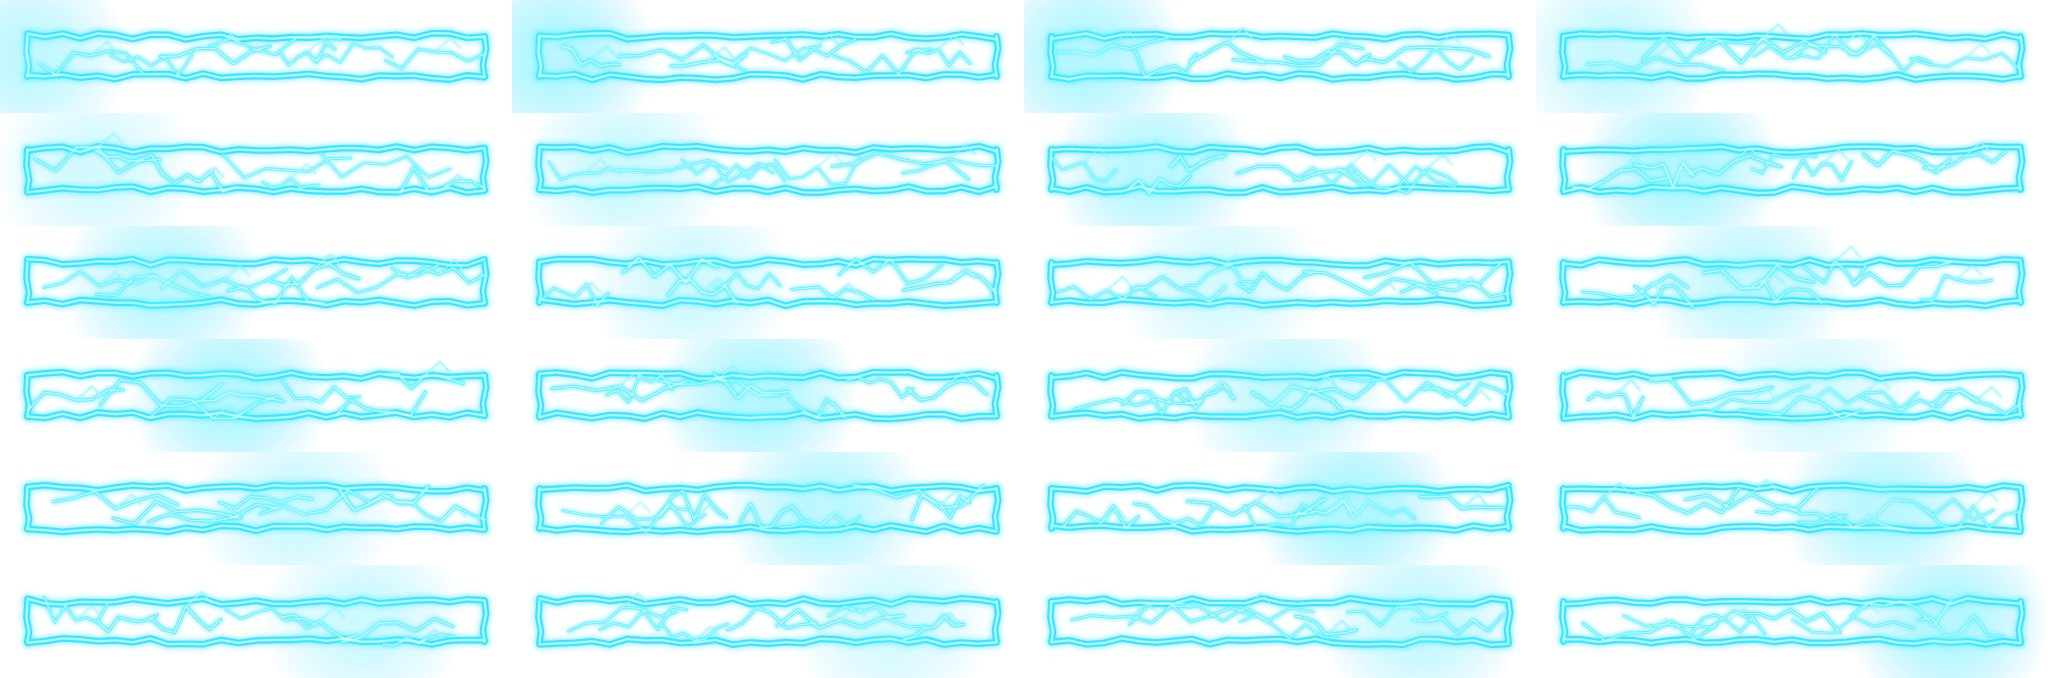
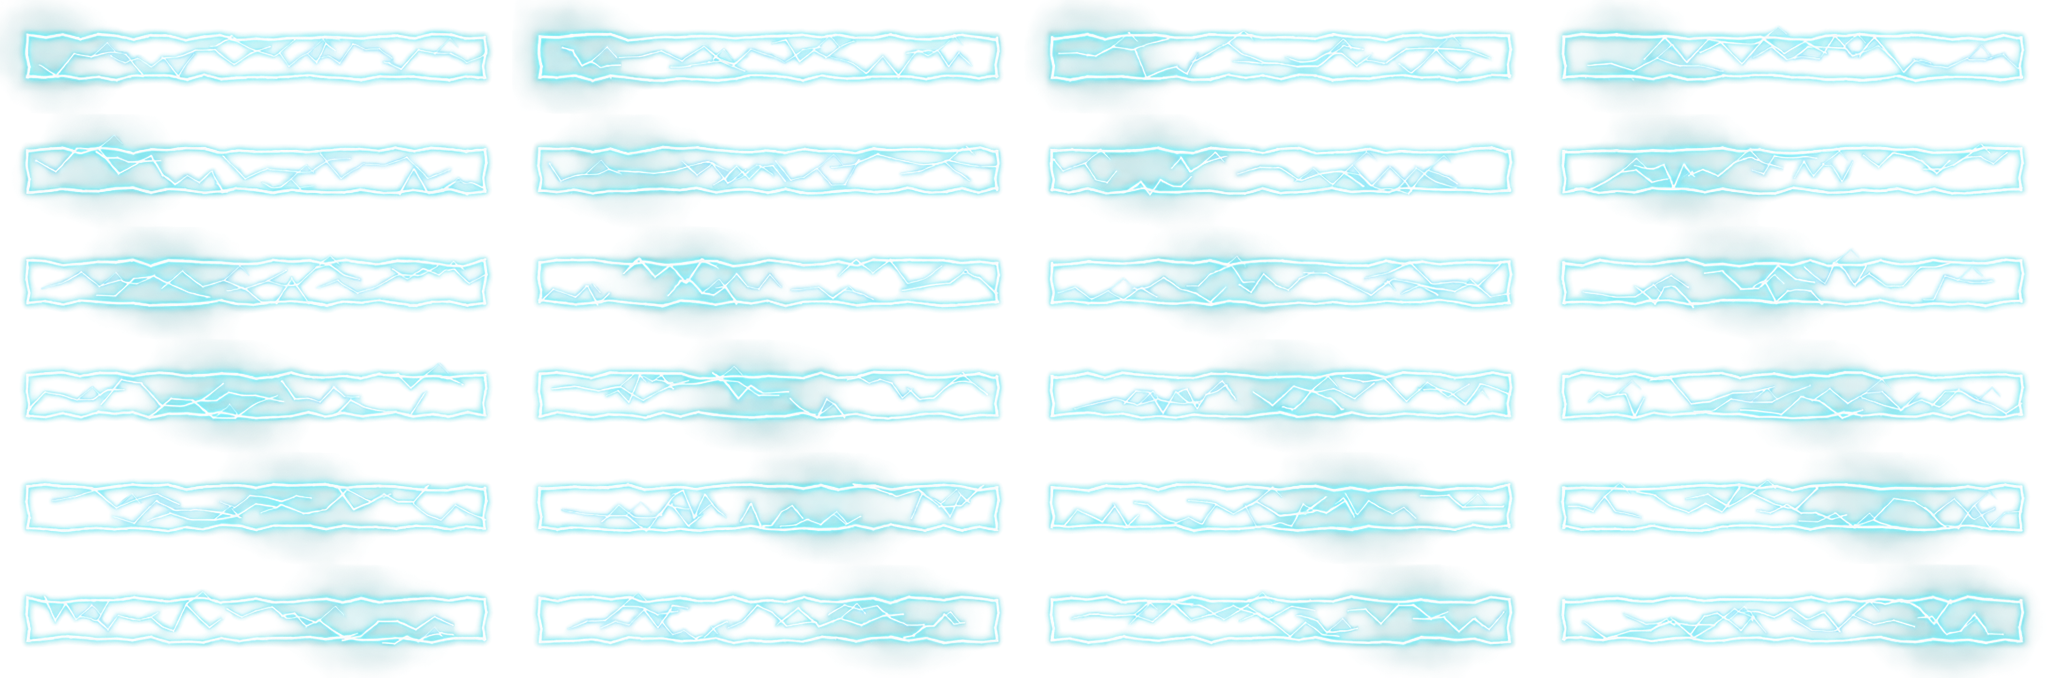
feat: aplica novo efeito elétrico nas barras Single e Double

Changed region(s): [[0.0, 0.0, 1.0, 1.0]]

diff --git a/piured-engine/js/GameObjects/LifeBar/LFBarElectric.js b/piured-engine/js/GameObjects/LifeBar/LFBarElectric.js
@@ -4,24 +4,28 @@ class LFBarElectric extends GameObject {
         super(resourceManager);
         this._active=false;this._time=0;this._elapsed=0;this._life=0.5;
         const width=kind==='double'?8:4,height=68/194;
-        // All expensive canvas strokes and blurs are baked at build time.
-        // Changing a frame updates one uniform, never uploads another texture.
-        this._texture=new THREE.TextureLoader().load('assets/img/gameplay/life-electric-'+(kind==='double'?'double':'single')+'.png');
+        // Both widths use the supplied 4×6 sheet. Frame changes only update a uniform.
+        this._texture=new THREE.TextureLoader().load('assets/img/gameplay/life-electric-shared.png');
         this._texture.minFilter=THREE.LinearFilter;
         this._texture.magFilter=THREE.LinearFilter;
         this._texture.generateMipmaps=false;
         this._motion=matchMedia('(prefers-reduced-motion:reduce)');
         const material=new THREE.ShaderMaterial({
-            uniforms:{electricMap:{value:this._texture},electricFrame:{value:0},lifeFill:{value:this._life}},
+            uniforms:{
+                electricMap:{value:this._texture},electricFrame:{value:0},lifeFill:{value:this._life},
+                electricOverscan:{value:new THREE.Vector2(1.12,2.6)}
+            },
             vertexShader:`varying vec2 electricUv;
+                uniform vec2 electricOverscan;
                 void main(){
                     electricUv=uv;
                     vec3 expanded=position;
-                    expanded.xy*=vec2(1.12,2.8);
+                    expanded.xy*=electricOverscan;
                     gl_Position=projectionMatrix*modelViewMatrix*vec4(expanded,1.0);
                 }`,
             fragmentShader:`uniform sampler2D electricMap;
-                uniform float electricFrame;uniform float lifeFill;varying vec2 electricUv;
+                uniform float electricFrame;uniform float lifeFill;uniform vec2 electricOverscan;
+                varying vec2 electricUv;
                 vec3 energyColor(float x){
                     if(x<.2)return mix(vec3(.929,.145,.980),vec3(.510,.239,1.),x/.2);
                     if(x<.4)return mix(vec3(.510,.239,1.),vec3(.188,.906,1.),(x-.2)/.2);
@@ -30,12 +34,16 @@ class LFBarElectric extends GameObject {
                     return mix(vec3(.941,1.,.690),vec3(1.,.345,.624),(x-.78)/.22);
                 }
                 void main(){
-                    vec2 frame=vec2(mod(electricFrame,4.),5.-floor(electricFrame/4.));
-                    vec4 energy=texture2D(electricMap,(frame+electricUv)/vec2(4.,6.));
+                    // The 543×60 cells start at y=181 in the 2172×724 source.
+                    // Sample between pixel centers so linear filtering stays inside the cell.
+                    vec2 cell=vec2(mod(electricFrame,4.)*543.,181.+floor(electricFrame/4.)*60.);
+                    vec2 pixel=cell+.5+vec2(electricUv.x,1.-electricUv.y)*vec2(542.,59.);
+                    vec4 energy=texture2D(electricMap,vec2(pixel.x/2172.,1.-pixel.y/724.));
                     vec3 color=energy.rgb*energy.a;float alpha=energy.a;
                     // The fill is separate from the baked arcs so every life change is immediate.
-                    float x=(electricUv.x-.074107)/.851786;
-                    if(x>=0.&&x<=lifeFill&&electricUv.y>=.410714&&electricUv.y<=.589286){
+                    vec2 barUv=(electricUv-.5)*electricOverscan+.5;
+                    float x=(barUv.x-.023)/.954;
+                    if(x>=0.&&x<=lifeFill&&barUv.y>=.25&&barUv.y<=.75){
                         color=1.-(1.-color)*(1.-energyColor(x)*.8);
                         alpha=1.-(1.-alpha)*.2;
                     }

diff --git a/index.html b/index.html
@@ -79,7 +79,7 @@
 <body id="activeScreen">
 
   <section class="black_screen arcade-opening" aria-label="Abertura arcade">
-    <p class="arcade-build">PIUWEB PHOENIX 2<br><span data-app-version>v0.8.86</span><br>Developed by Daniel Neitzel</p>
+    <p class="arcade-build">PIUWEB PHOENIX 2<br><span data-app-version>v0.8.87</span><br>Developed by Daniel Neitzel</p>
     <img class="arcade-opening-logo" src="assets/img/mainLogo_phx2.png" alt="Pump It Up Phoenix 2">
     <button type="button" id="arcade-insert" class="arcade-start-pad"><img class="arcade-prompt" src="assets/img/phx2/press_center_step.png" alt="Press Center Step"><img class="arcade-pad" src="assets/img/phx2/step.png" alt=""><strong>TOQUE PARA ATIVAR</strong><span>ou pressione ENTER</span></button>
     <p class="arcade-opening-footer">FREE PLAY · RECORDES LOCAIS</p>
@@ -230,7 +230,7 @@
 
     <div class="col-12 d-grid my-4 gap-3">
       <div class="col-12 startGameTitle">
-        <span class="versionCode arcade-build">PIUWEB PHOENIX 2<br><span data-app-version>v0.8.86</span><br>Developed by Daniel Neitzel</span>
+        <span class="versionCode arcade-build">PIUWEB PHOENIX 2<br><span data-app-version>v0.8.87</span><br>Developed by Daniel Neitzel</span>
         <img class="logoTitle arcade-opening-logo" src="assets/img/mainLogo_phx2.png" alt="Pump It Up Phoenix 2">
         <button id="btnModalLogin"
           class="arcade-start-pad" type="button" onclick="PiuOpening.start()">

diff --git a/localStage.html b/localStage.html
@@ -137,7 +137,7 @@
   <script src="piured-engine/js/GameObjects/LifeBar/LFFront.js"></script>
   <script src="piured-engine/js/GameObjects/LifeBar/LFTip.js"></script>
   <script src="assets/js/life-electric.js?v=0.8.49"></script>
-  <script src="piured-engine/js/GameObjects/LifeBar/LFBarElectric.js?v=0.8.53"></script>
+  <script src="piured-engine/js/GameObjects/LifeBar/LFBarElectric.js?v=0.8.87"></script>
   <script src="piured-engine/js/GameObjects/LifeBar/LifeBar.js?v=0.8.49"></script>
 
   <script src="piured-engine/js/GameObjects/Stage/Background.js"></script>
